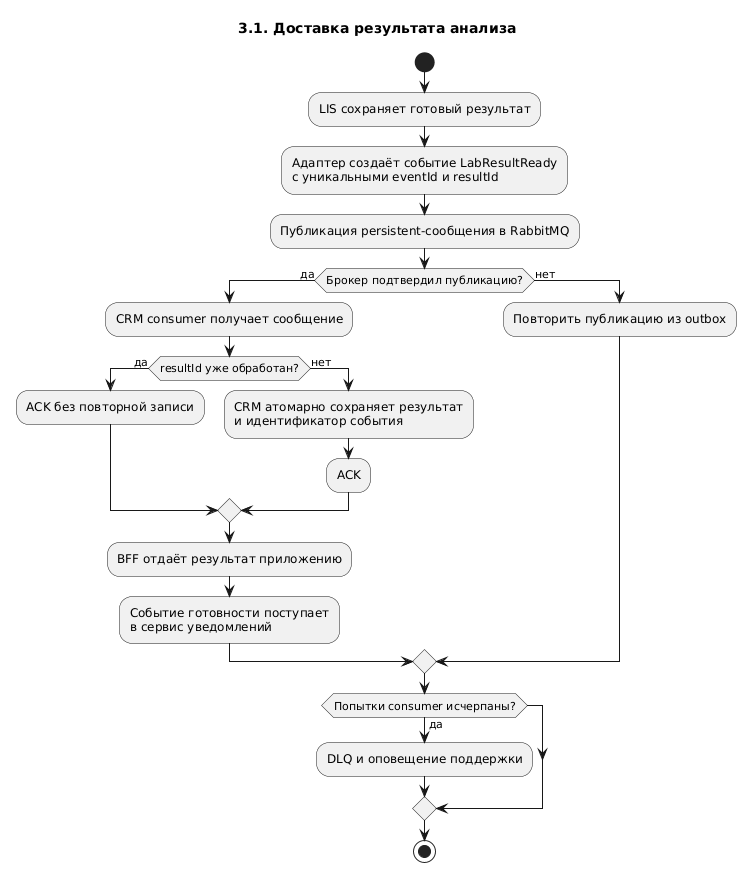
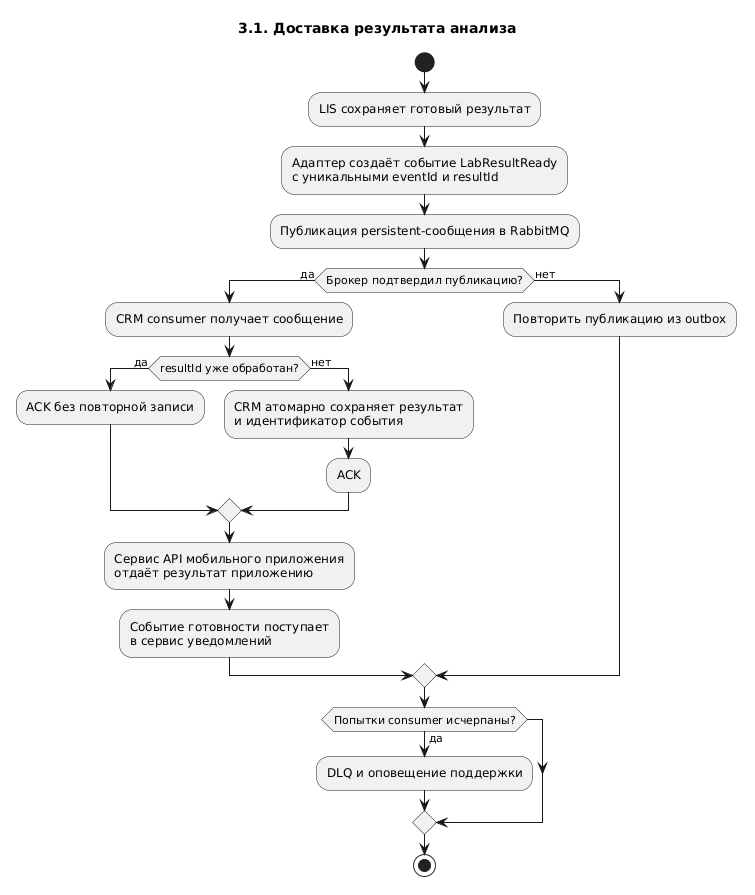
Clarify shortcuts

Changed region(s): [[0.0305, 0.0613, 0.9748, 0.5823], [0.1219, 0.5516, 0.8225, 0.9807], [0.4874, 0.0306, 0.5179, 0.0613]]

diff --git a/sprint-5/Task3/3.1-solution.md b/sprint-5/Task3/3.1-solution.md
@@ -1,6 +1,6 @@
 # 3.1. Выбранное решение доставки результатов анализов
 
-После фиксации готового результата LIS публикует событие `LabResultReady` в RabbitMQ через небольшой адаптер. Сообщение содержит `eventId`, `resultId`, `patientId`, время и ссылку или идентификатор результата; медицинские данные по возможности остаются в CRM/LIS. CRM-потребитель сохраняет результат идемпотентно по `resultId`, а BFF читает его из CRM. Подтверждение (`ack`) отправляется только после успешной записи. Временные ошибки приводят к повтору, исчерпанные попытки — в DLQ и оповещение поддержки.
+После фиксации готового результата LIS публикует событие `LabResultReady` в RabbitMQ через небольшой адаптер. Сообщение содержит `eventId`, `resultId`, `patientId`, время и ссылку или идентификатор результата; медицинские данные по возможности остаются в CRM/LIS. CRM-потребитель сохраняет результат идемпотентно по `resultId`, а сервис API мобильного приложения читает его из CRM. Подтверждение (`ack`) отправляется только после успешной записи. Временные ошибки приводят к повтору, исчерпанные попытки — в DLQ и оповещение поддержки.
 
 RabbitMQ уже используется компанией, поэтому решение не добавляет новую платформу. Чтобы событие не потерялось между сохранением результата и публикацией, используется `outbox` — таблица исходящих событий со статусом отправки. Результат анализа и запись в `outbox` сохраняются в одной транзакции. Отдельный процесс читает неотправленные записи, публикует их в RabbitMQ и при временном сбое повторяет отправку. Очередь сглаживает пики, а несколько экземпляров потребителя масштабируют обработку.
 

diff --git a/sprint-5/Task3/3.2-scenario.md b/sprint-5/Task3/3.2-scenario.md
@@ -2,7 +2,7 @@
 
 ### Идемпотентность на входе
 
-Мобильное приложение передаёт заголовок `Idempotency-Key` (UUID) при создании записи. API Gateway или BFF атомарно сохраняет ключ вместе с идентификатором пациента, хешем тела запроса, статусом операции и ответом. Повтор с тем же ключом и тем же телом возвращает сохранённый ответ; с другим телом — `409 Conflict`. Ключ передаётся как idempotency/correlation key в расписание, платёж и LIS, а бизнес-идентификаторы защищены уникальными ограничениями.
+Мобильное приложение передаёт заголовок `Idempotency-Key` (UUID) при создании записи. API Gateway или сервис API мобильного приложения атомарно сохраняет ключ вместе с идентификатором пациента, хешем тела запроса, статусом операции и ответом. Повтор с тем же ключом и тем же телом возвращает сохранённый ответ; с другим телом — `409 Conflict`. Ключ передаётся как idempotency/correlation key в расписание, платёж и LIS, а бизнес-идентификаторы защищены уникальными ограничениями.
 
 ### Выбор типа SAGA
 
